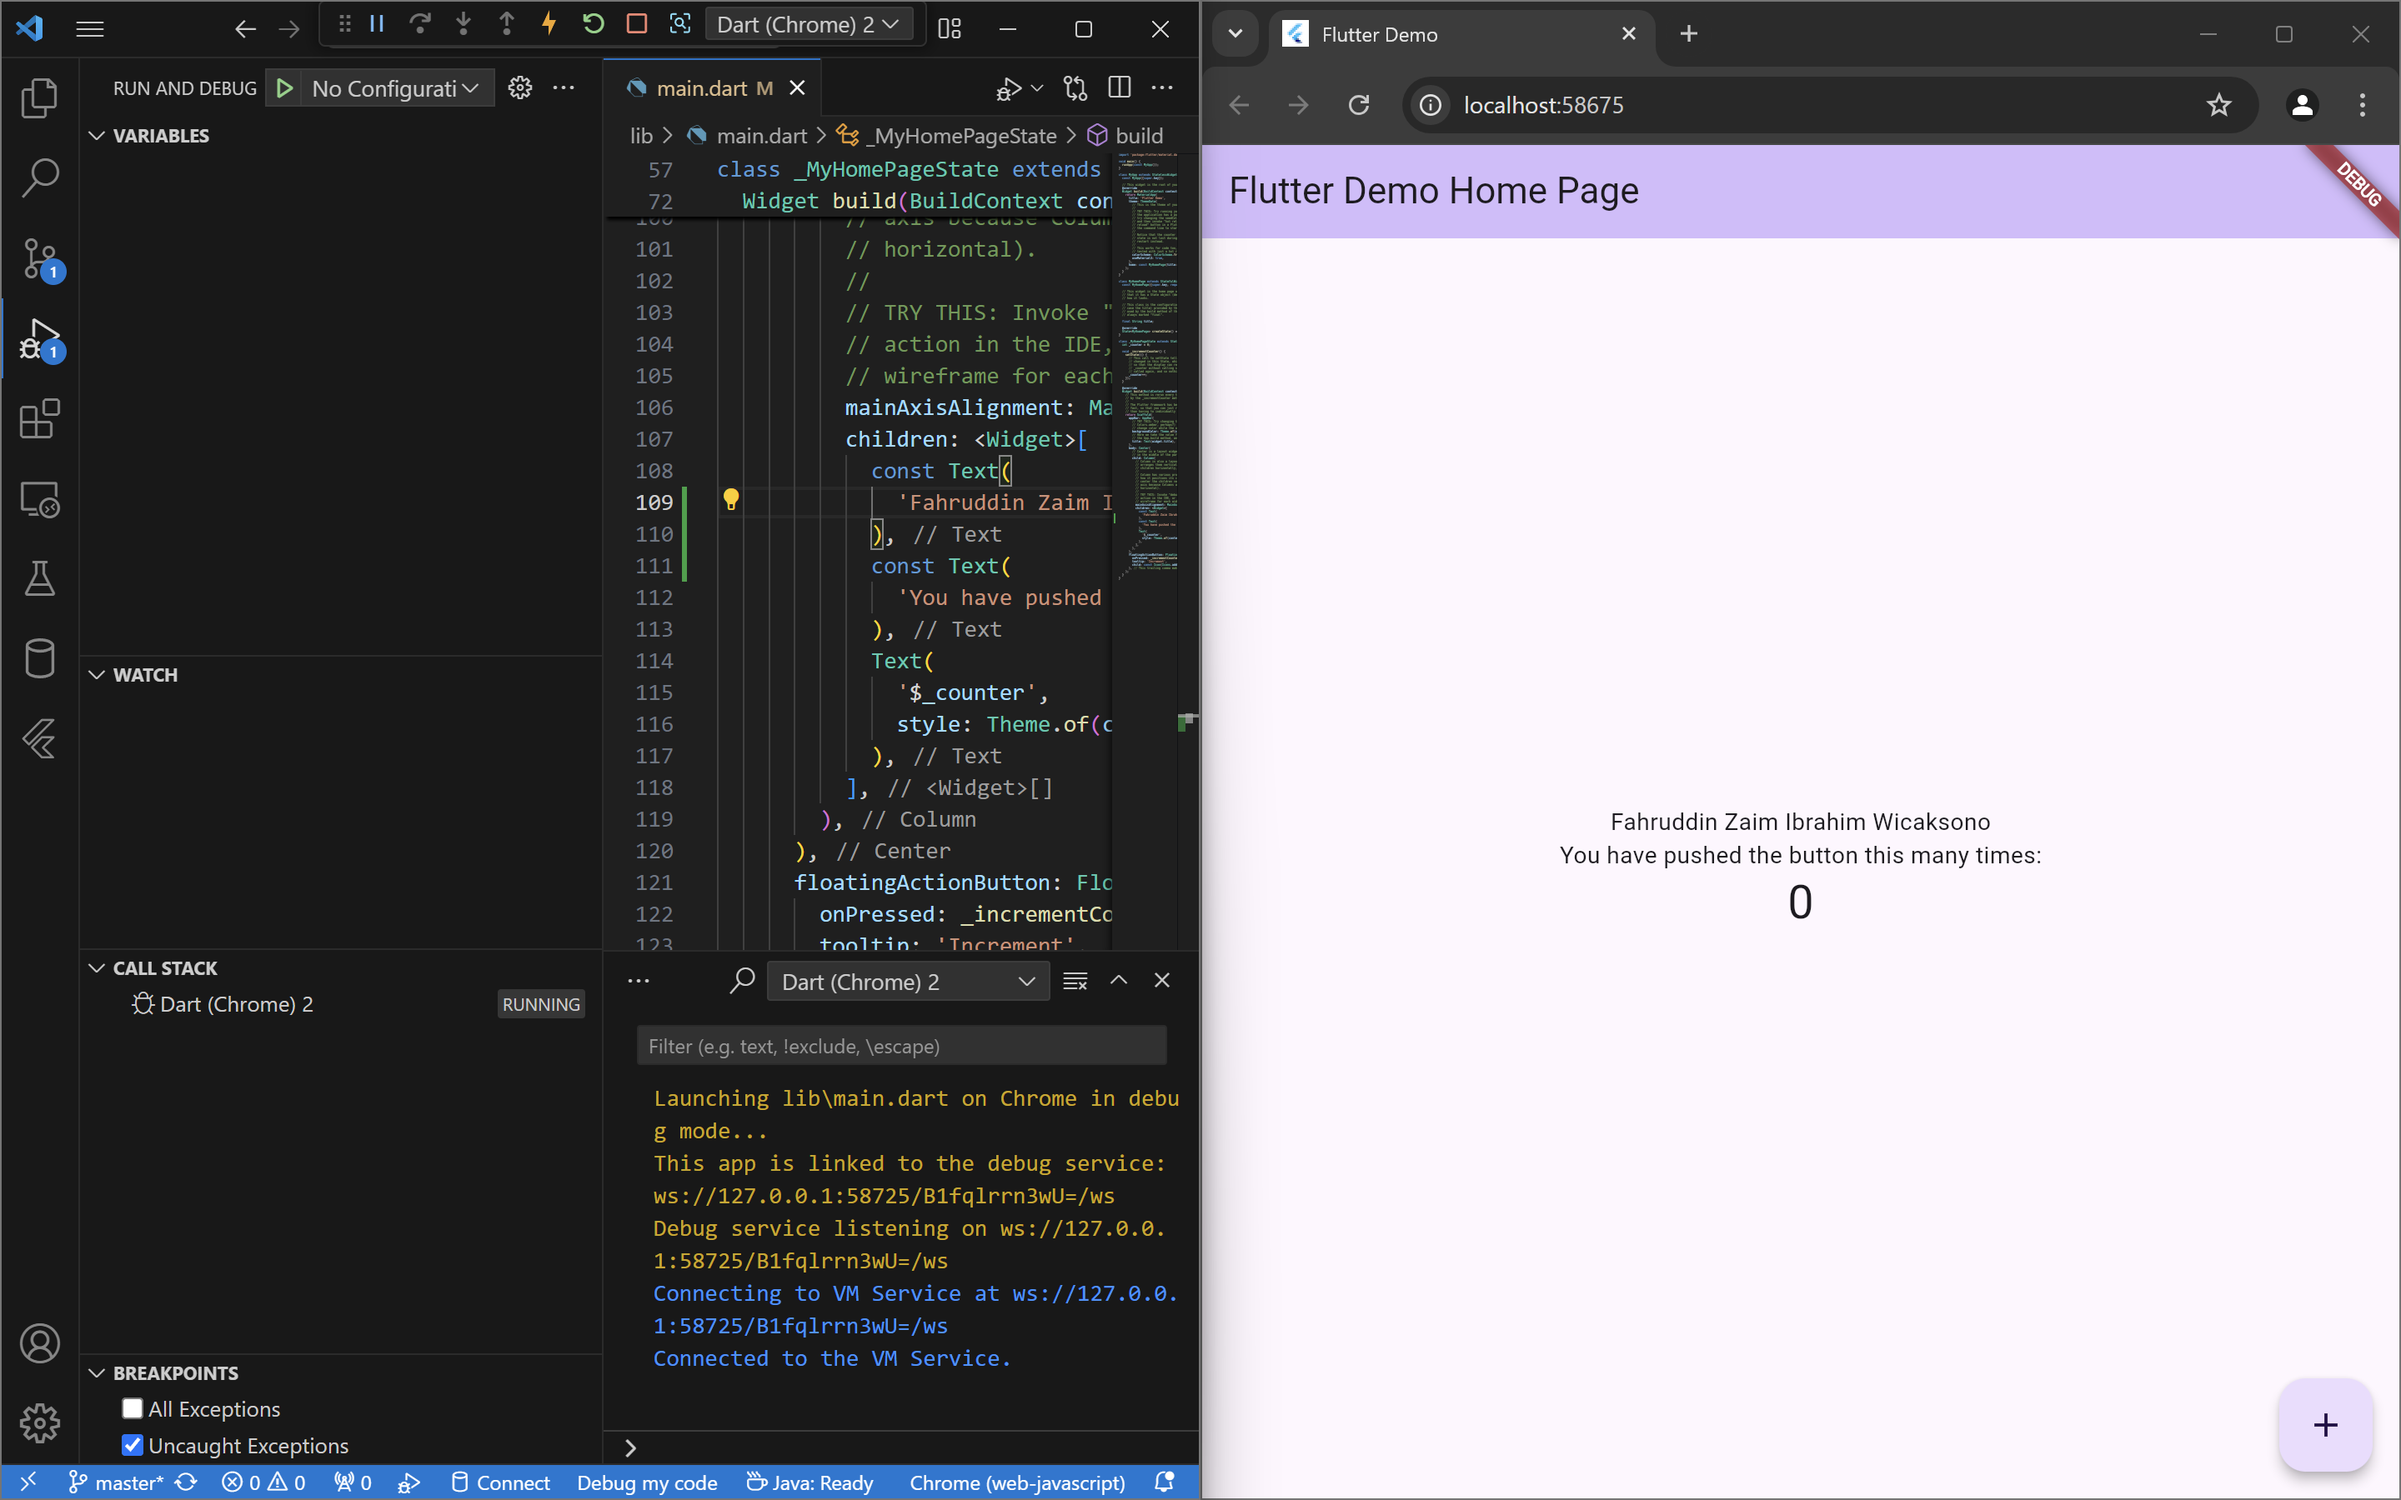
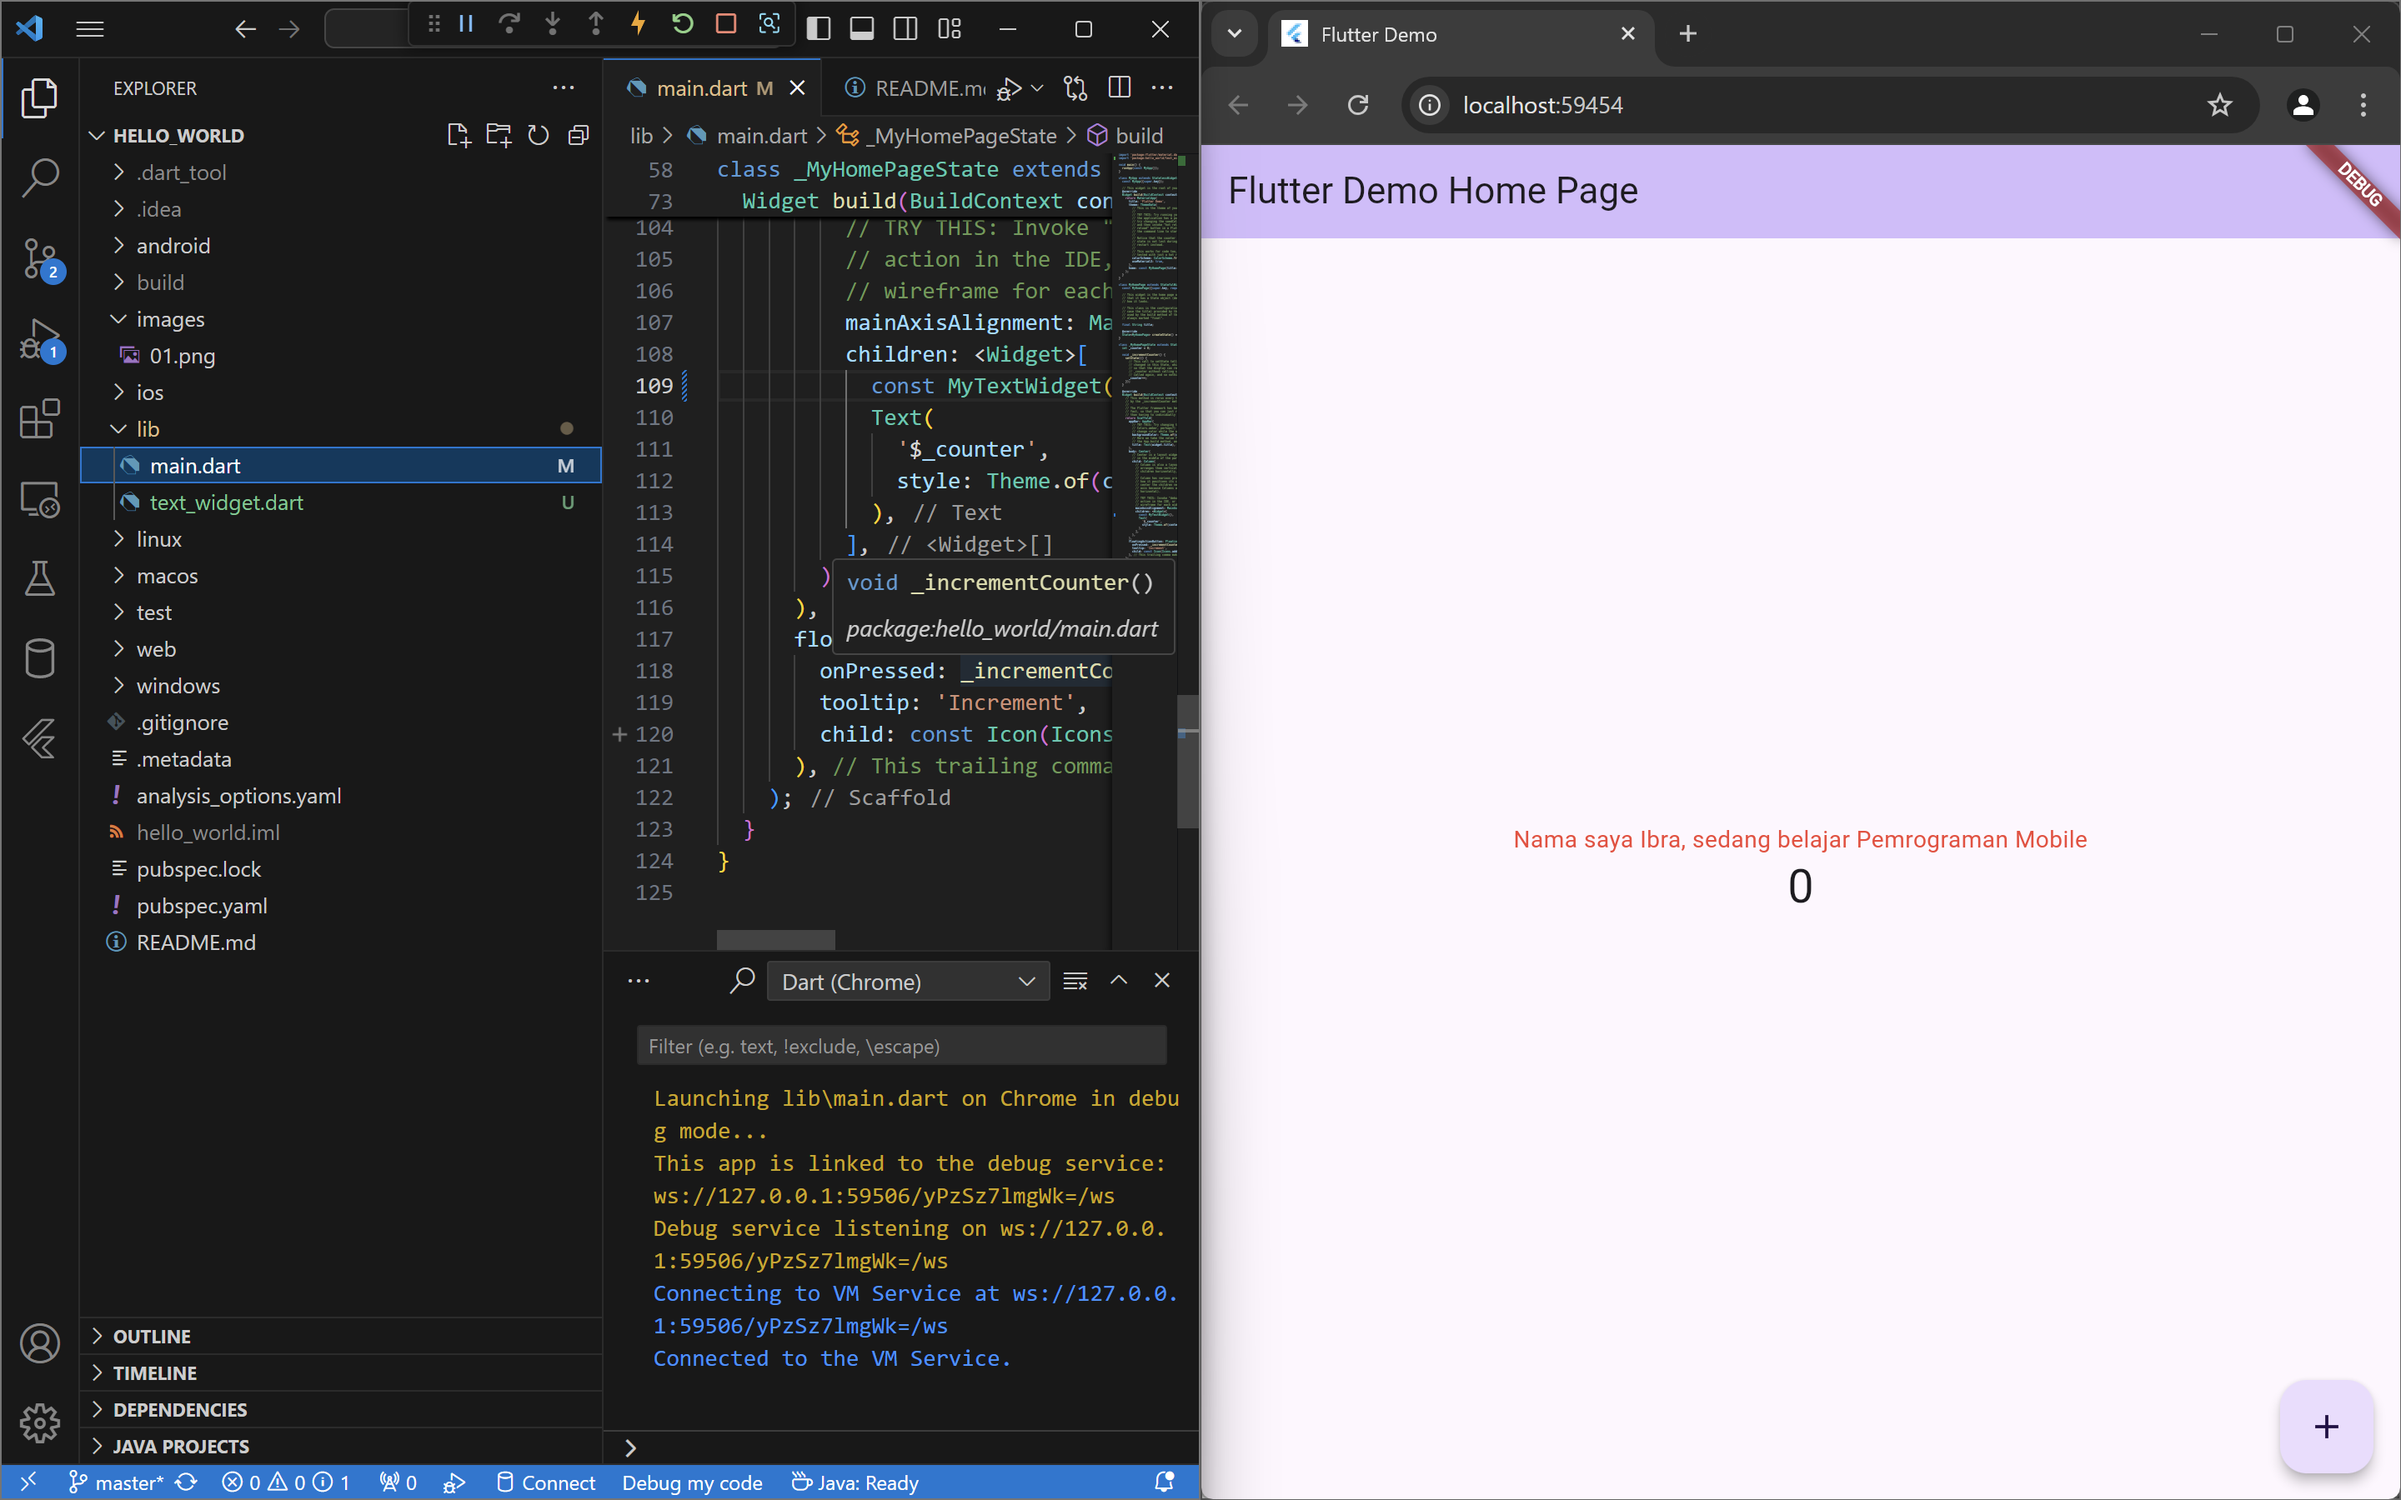
add image

diff --git a/lib/main.dart b/lib/main.dart
@@ -1,4 +1,5 @@
 import 'package:flutter/material.dart';
+import 'package:hello_world/text_widget.dart';
 
 void main() {
   runApp(const MyApp());
@@ -105,12 +106,7 @@ class _MyHomePageState extends State<MyHomePage> {
           // wireframe for each widget.
           mainAxisAlignment: MainAxisAlignment.center,
           children: <Widget>[
-            const Text(
-              'Fahruddin Zaim Ibrahim Wicaksono',
-            ),
-            const Text(
-              'You have pushed the button this many times:',
-            ),
+            const MyTextWidget(),
             Text(
               '$_counter',
               style: Theme.of(context).textTheme.headlineMedium,

diff --git a/lib/text_widget.dart b/lib/text_widget.dart
@@ -1,0 +1,13 @@
+import 'package:flutter/material.dart';
+
+class MyTextWidget extends StatelessWidget {
+  const MyTextWidget({Key? key}) : super(key: key);
+
+  @override
+  Widget build(BuildContext context) {
+    return const Text(
+      "Nama saya Ibra, sedang belajar Pemrograman Mobile",
+      style: TextStyle(color: Colors.red, fontSize: 14),
+      textAlign: TextAlign.center);
+  }
+}
